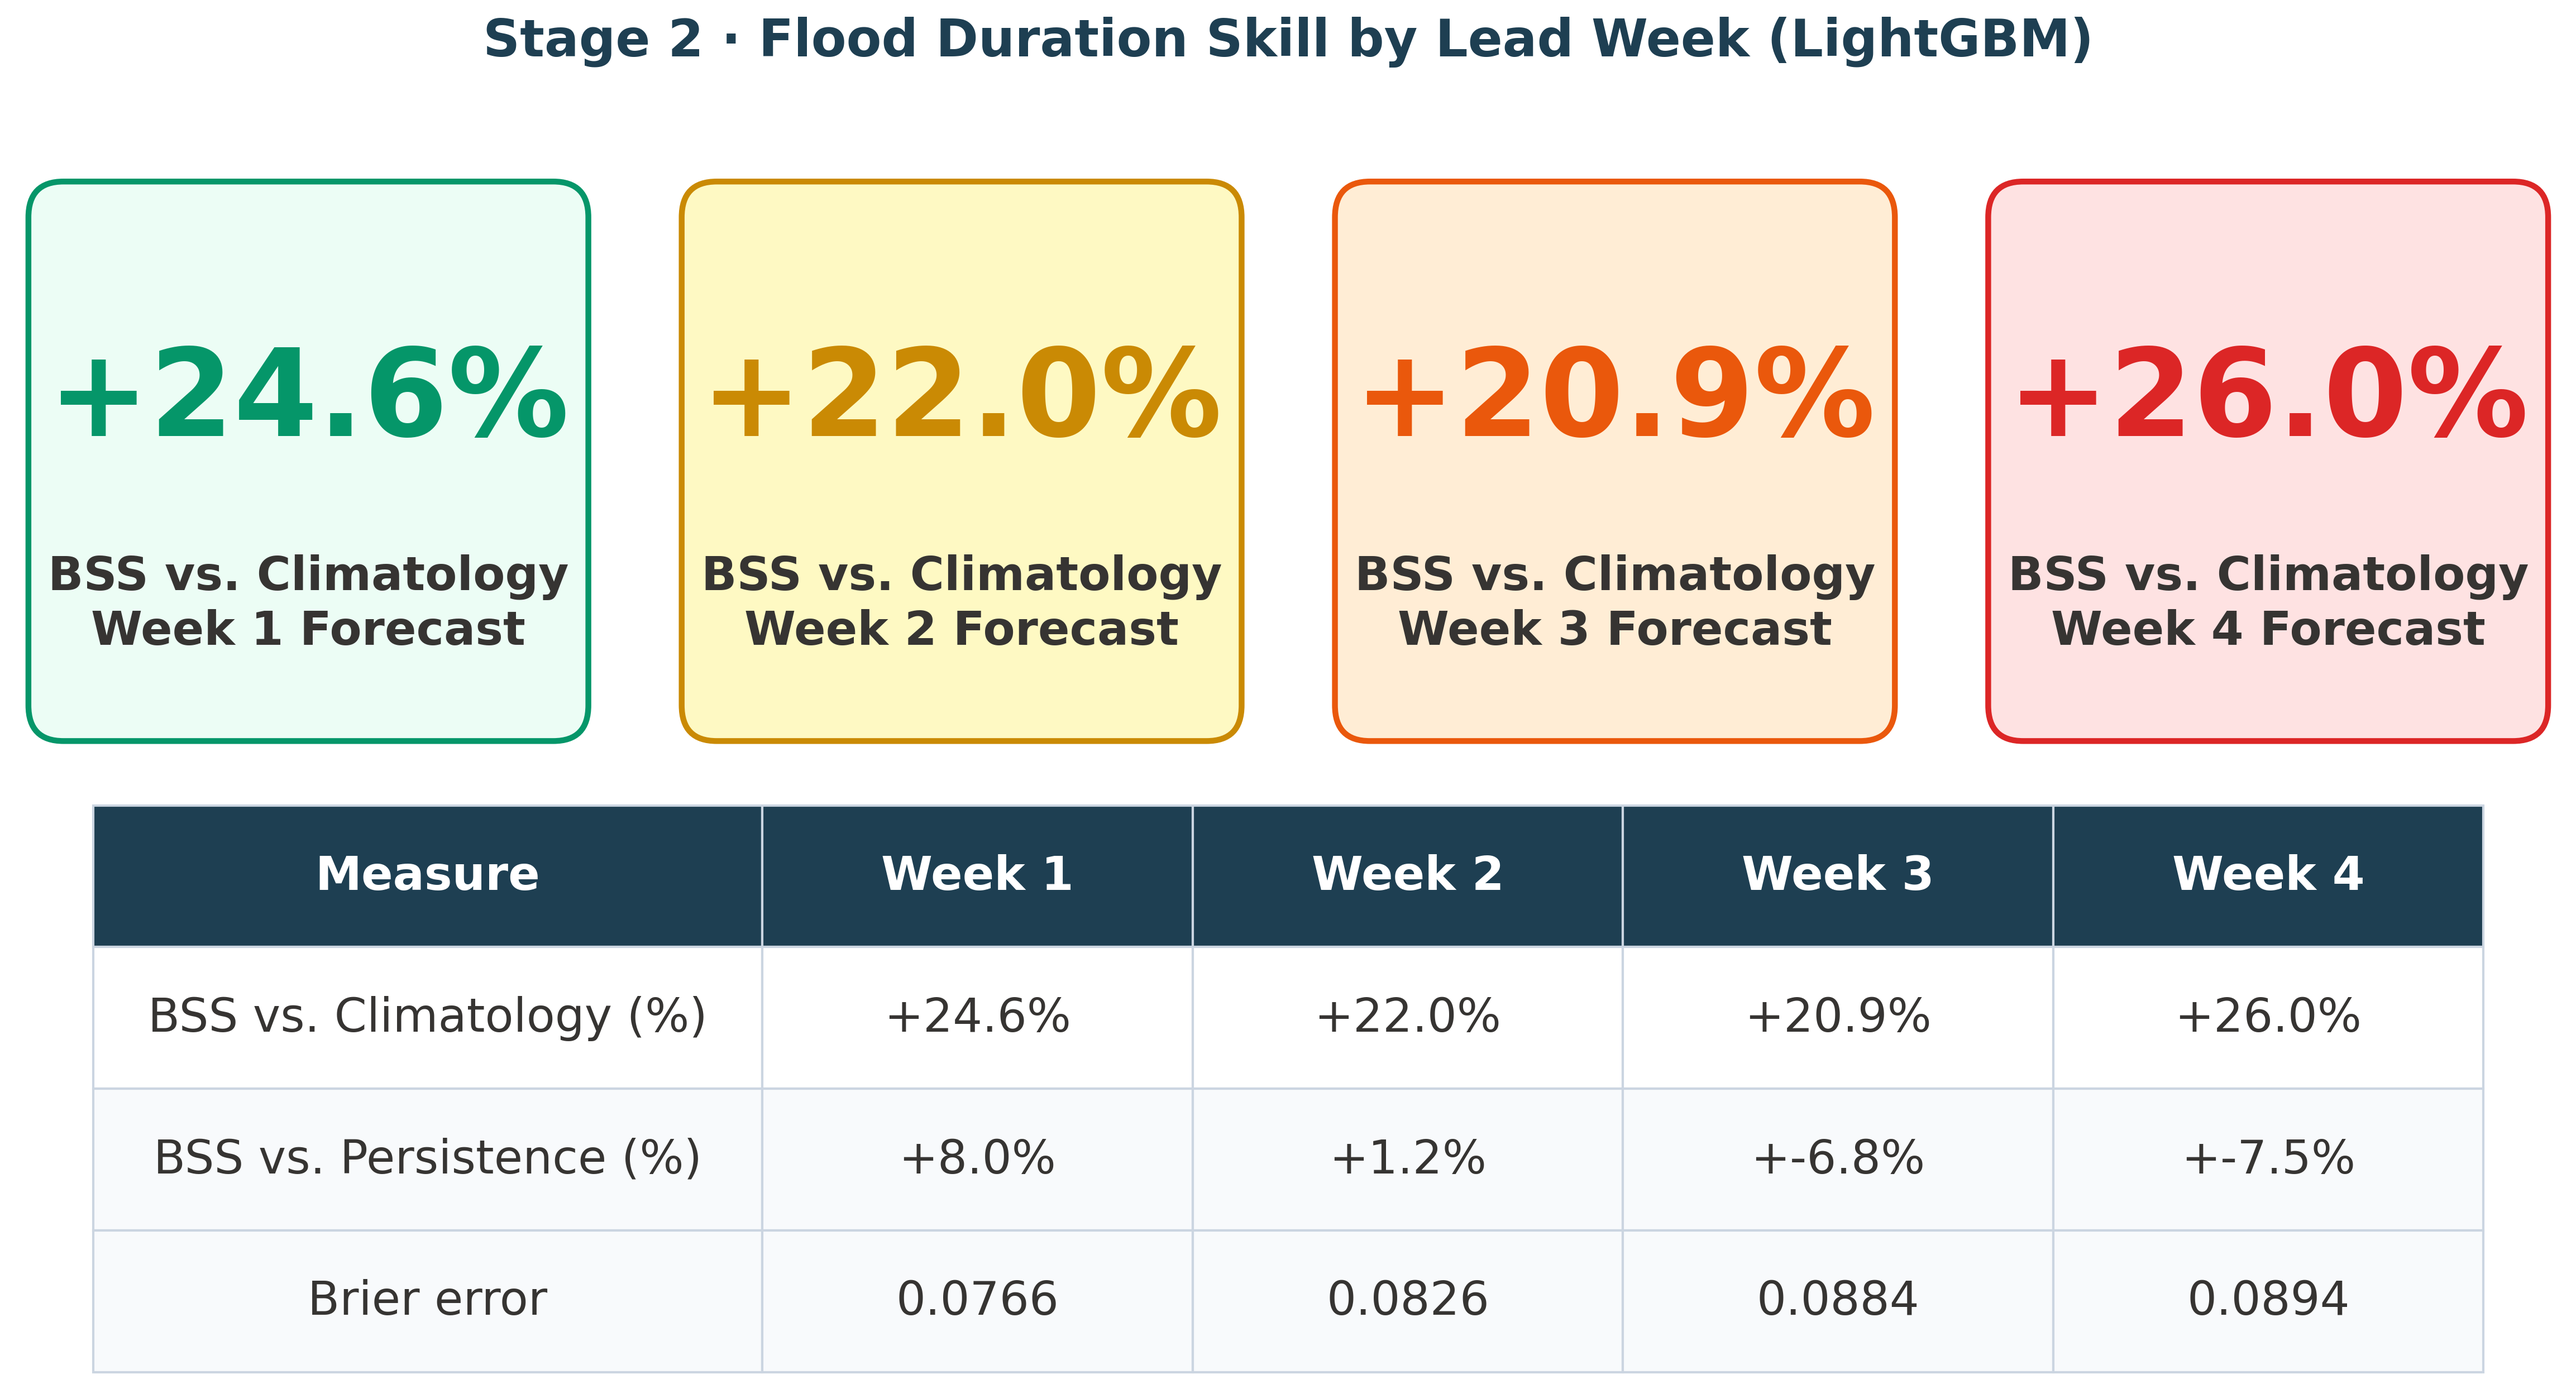
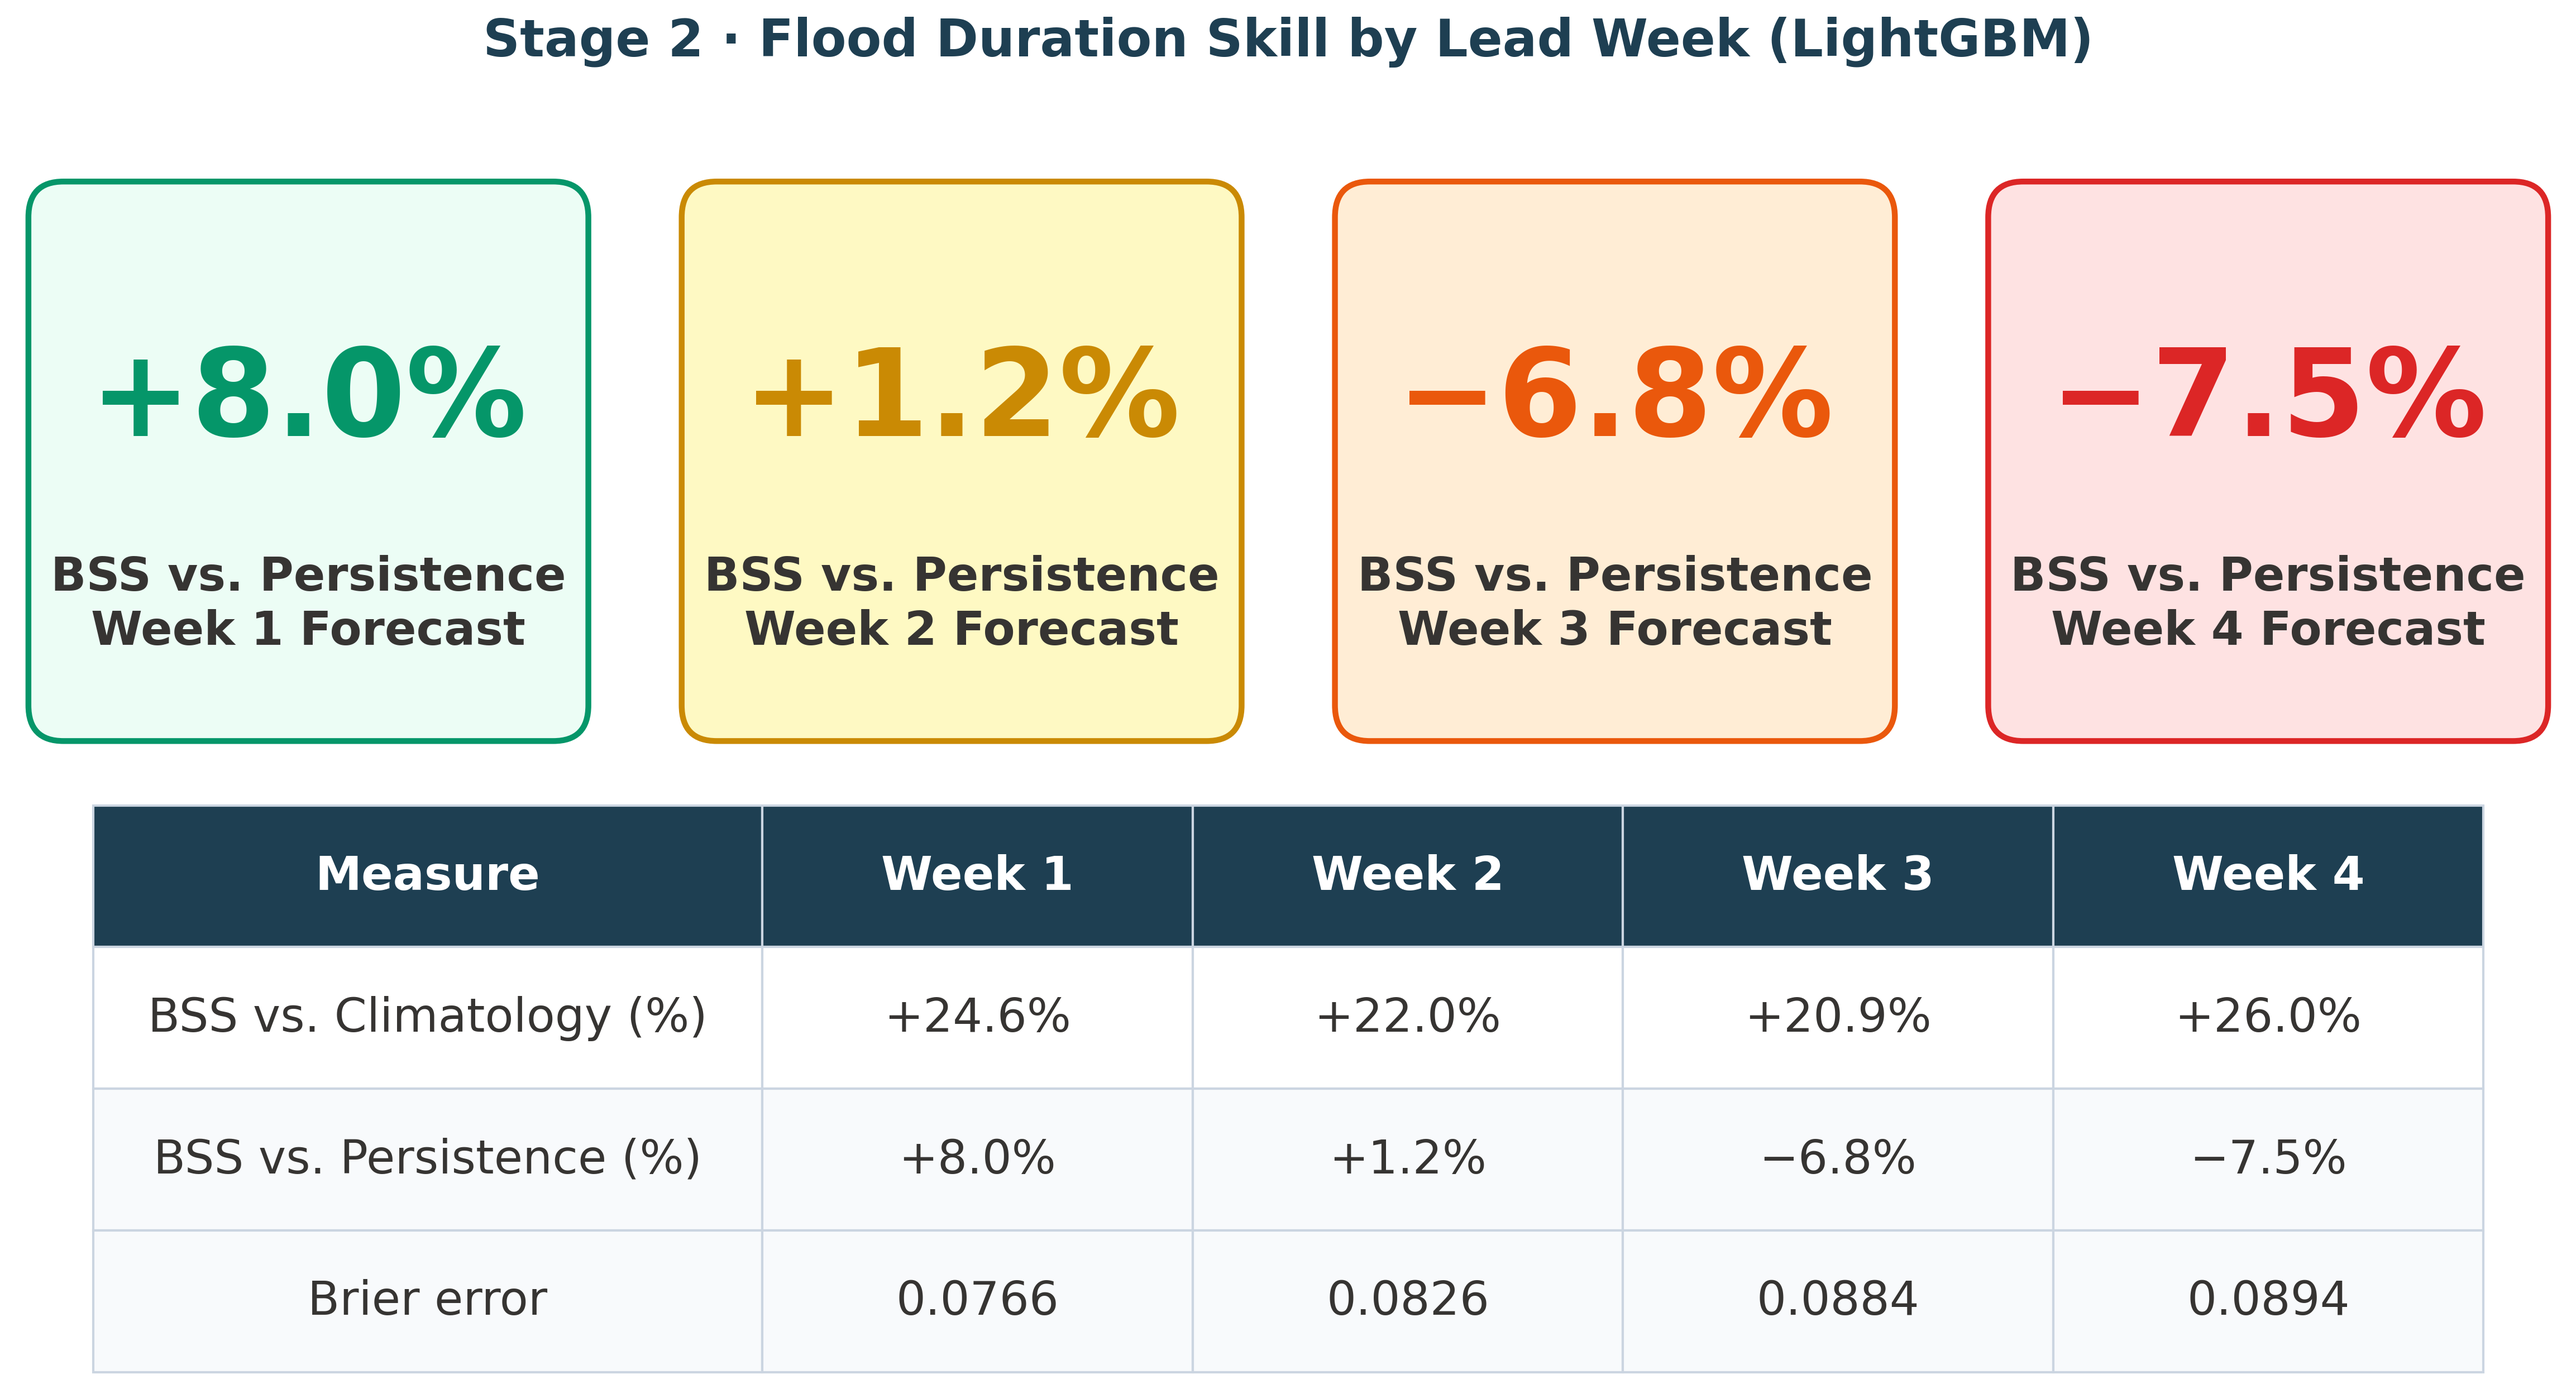
feat: duration cards show BSS vs. persistence (the monotonic decay)
- stat cards now compare against persistence instead of climatology:
  +8.0% (W1, green) -> +1.2% (W2, yellow) -> -6.8% (W3, orange) ->
  -7.5% (W4, red) - the values finally match the green-to-red
  difficulty gradient, showing prediction quality decaying with lead
- table: fixed '+-6.8%' sign bug in the persistence row (proper
  minus signs); climatology and Brier rows kept as context

diff --git a/generate_model_performance_poster.py b/generate_model_performance_poster.py
@@ -252,9 +252,10 @@ def generate_duration_skill_overview(output_dir: Path) -> tuple[Path, Path]:
     gs = fig.add_gridspec(2, 4, height_ratios=[1.05, 1.0], hspace=0.08, wspace=0.12)
 
     for i, h in enumerate((1, 2, 3, 4)):
-        bss = dur.loc[h, "bss_vs_climatology"] * 100
-        draw_stat_card(fig.add_subplot(gs[0, i]), f"+{bss:.1f}%",
-                       f"BSS vs. Climatology\nWeek {h} Forecast",
+        val = dur.loc[h, "bss_vs_persistence"] * 100
+        sign = "+" if val >= 0 else "\u2212"
+        draw_stat_card(fig.add_subplot(gs[0, i]), f"{sign}{abs(val):.1f}%",
+                       f"BSS vs. Persistence\nWeek {h} Forecast",
                        gradient[i])
 
     ax_tbl = fig.add_subplot(gs[1, :])
@@ -262,7 +263,7 @@ def generate_duration_skill_overview(output_dir: Path) -> tuple[Path, Path]:
         ax_tbl,
         header=["Measure", "Week 1", "Week 2", "Week 3", "Week 4"],
         rows=[["BSS vs. Climatology (%)"] + [f"+{dur.loc[h, 'bss_vs_climatology'] * 100:.1f}%" for h in (1, 2, 3, 4)],
-              ["BSS vs. Persistence (%)"] + [f"+{dur.loc[h, 'bss_vs_persistence'] * 100:.1f}%" for h in (1, 2, 3, 4)],
+              ["BSS vs. Persistence (%)"] + [f"{dur.loc[h, 'bss_vs_persistence'] * 100:+.1f}%".replace("-", "\u2212") for h in (1, 2, 3, 4)],
               ["Brier error"] + [f"{dur.loc[h, 'brier_score']:.4f}" for h in (1, 2, 3, 4)]],
         col_widths=[0.28, 0.18, 0.18, 0.18, 0.18],
         bbox=[0.03, 0.0, 0.94, 1.0],
